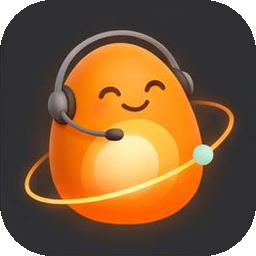
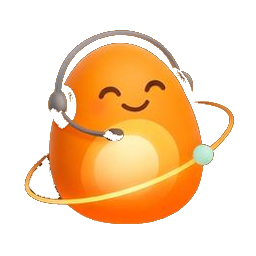
Show each agent as the character alone, and let that mascot move while it works.
The icon no longer sits on a black tile, the phone create-bot sheet fits a narrow screen, and the same site is what the desktop app loads.

diff --git a/apps/web/app/globals.css b/apps/web/app/globals.css
@@ -3126,13 +3126,84 @@ button.provider:disabled { opacity: .6; cursor: default; }
 .chief-alert-draft { margin: 8px 0; padding: 8px 10px; border-left: 3px solid var(--accent); white-space: pre-wrap; font-size: 13px; }
 .chief-alert-actions { display: flex; flex-wrap: wrap; gap: 6px; margin-top: 8px; }
 
-/* Agent mascots (components/mascots.ts): the picture fills the avatar; the agent's color tints it. */
-.agent-avatar.mascot { background: transparent !important; padding: 0; overflow: hidden; }
-.agent-avatar.mascot img { width: 100%; height: 100%; display: block; object-fit: cover; }
-.avatar-icon-grid.mascots { grid-template-columns: repeat(6, minmax(36px, 1fr)); gap: 6px; }
+/* Agent mascots: the picture is the character only (transparent around it). Color tints the artwork. */
+.agent-avatar.mascot {
+  position: relative;
+  background: transparent !important;
+  padding: 0;
+  overflow: visible;
+  border-radius: 0;
+  box-shadow: none;
+}
+.agent-avatar.mascot img {
+  position: relative;
+  z-index: 1;
+  width: 100%;
+  height: 100%;
+  display: block;
+  object-fit: contain;
+  transform: scale(1.12);
+  transform-origin: center;
+}
+.agent-avatar.chat-head-face.mascot { width: 40px; height: 40px; }
+.think-mascot { width: 36px; height: 36px; }
+.group-stack .agent-avatar.mascot { margin-left: -10px; box-shadow: none; }
+.avatar-icon-grid.mascots { grid-template-columns: repeat(6, minmax(0, 1fr)); gap: 6px; }
 .avatar-icon-grid.mascots button { width: 100%; height: auto; aspect-ratio: 1; padding: 2px; background: transparent; border-width: 2px; border-radius: 12px; }
-.avatar-icon-grid.mascots button img { width: 100%; height: 100%; border-radius: 9px; display: block; transition: filter 0.15s ease; }
+.avatar-icon-grid.mascots button img { width: 100%; height: 100%; border-radius: 0; object-fit: contain; display: block; transition: filter 0.15s ease; }
 .avatar-icon-grid.mascots button:hover { border-color: var(--line); }
+.agent-avatar.mascot.working::before {
+  content: "";
+  position: absolute;
+  inset: 8%;
+  z-index: 0;
+  border-radius: 50%;
+  background: radial-gradient(circle, color-mix(in srgb, var(--mascot, #f97316) 42%, transparent), transparent 70%);
+  animation: mascot-glow 1.15s ease-in-out infinite;
+}
+.agent-avatar.mascot.working img { animation: mascot-bob 1.15s ease-in-out infinite; }
+@keyframes mascot-bob {
+  0%, 100% { transform: scale(1.12) translateY(0) rotate(-4deg); }
+  50% { transform: scale(1.2) translateY(-10%) rotate(5deg); }
+}
+@keyframes mascot-glow {
+  0%, 100% { opacity: 0.45; transform: scale(0.86); }
+  50% { opacity: 1; transform: scale(1.08); }
+}
+.table-scroll { max-width: 100%; overflow-x: auto; -webkit-overflow-scrolling: touch; }
+
+@media (max-width: 640px) {
+  .agent-form-scrim {
+    padding: 0;
+    align-items: end;
+  }
+  .agent-form,
+  .agent-form.wide {
+    width: 100%;
+    max-height: 100dvh;
+    border-radius: 18px 18px 0 0;
+    padding: 16px 14px calc(12px + env(safe-area-inset-bottom));
+  }
+  .agent-avatar-editor { grid-template-columns: 1fr; }
+  .agent-avatar-preview {
+    grid-auto-flow: column;
+    justify-content: start;
+    align-items: center;
+    gap: 10px;
+    text-align: left;
+  }
+  .avatar-icon-grid.mascots { grid-template-columns: repeat(4, minmax(0, 1fr)); gap: 8px; }
+  .avatar-icon-grid.mascots button { min-height: 44px; }
+  .avatar-color-grid button { width: 28px; height: 28px; }
+  .agent-form-actions {
+    position: sticky;
+    bottom: 0;
+    background: #fff;
+    padding-top: 10px;
+  }
+  .agent-form-actions .btn { flex: 1; min-height: 44px; }
+  .topbar-who { min-width: 0; }
+}
 
 /* Skill flow canvas (components/SkillFlow.tsx): steps as linked nodes; passed ticked, current highlighted. */
 .skill-flow { margin: 10px 0; }

diff --git a/apps/web/app/components/AgentsNav.tsx b/apps/web/app/components/AgentsNav.tsx
@@ -414,6 +414,7 @@ export function AgentsNav({
             agent={agent}
             href={chatHref({ agent: agent.id })}
             active={activeAgentId === agent.id && !activeGroupId}
+            working={busyScopes.includes(`a.${agent.id}`)}
             preview={busyScopes.includes(`a.${agent.id}`) ? "Working…" : previewFor(threads, agent.id, null) || agent.preview || agent.title || "New chat"}
             stay={pathname === "/chat"}
             onOpen={() => {
@@ -443,7 +444,7 @@ export function AgentsNav({
                 window.location.assign(chatHref({ group: group.id }));
               }}
             >
-              <GroupStack members={group.members} />
+              <GroupStack members={group.members} working={busyScopes.includes(`g.${group.id}`)} />
               <span className="agent-copy">
                 <strong>{group.name}</strong>
                 <small>{busyScopes.includes(`g.${group.id}`) ? "Working…" : previewFor(threads, null, group.id) || group.outcome || group.preview || group.members.map((m) => m.name).join(", ") || "Group"}</small>
@@ -834,6 +835,7 @@ function AgentRow({
   href,
   active,
   preview,
+  working = false,
   stay,
   onOpen,
   onOpenMenu,
@@ -842,6 +844,7 @@ function AgentRow({
   href: string;
   active: boolean;
   preview: string;
+  working?: boolean;
   stay?: boolean;
   onOpen: () => void;
   onOpenMenu: (x: number, y: number) => void;
@@ -865,7 +868,7 @@ function AgentRow({
           window.location.assign(href);
         }}
       >
-        <AgentAvatar name={agent.name} color={agent.color} avatar={agent.avatar} />
+        <AgentAvatar name={agent.name} color={agent.color} avatar={agent.avatar} working={working} />
         <span className="agent-copy">
           <strong>
             {agent.pinned ? <span className="agent-pin" aria-hidden /> : null}
@@ -1201,12 +1204,12 @@ function previewFor(threads: ChatSessionRow[], agentId: string | null, groupId: 
   return (row?.title || "").trim();
 }
 
-function GroupStack({ members }: { members: WorkspaceAgent[] }) {
+function GroupStack({ members, working = false }: { members: WorkspaceAgent[]; working?: boolean }) {
   const shown = useMemo(() => members.slice(0, 3), [members]);
   return (
-    <span className="group-stack" aria-hidden>
+    <span className={`group-stack${working ? " working" : ""}`} aria-hidden>
       {shown.map((m) => (
-        <AgentAvatar key={m.id} name={m.name} color={m.color} avatar={m.avatar} className="agent-avatar tiny" />
+        <AgentAvatar key={m.id} name={m.name} color={m.color} avatar={m.avatar} working={working} className="agent-avatar tiny" />
       ))}
     </span>
   );

diff --git a/apps/web/app/usage/page.tsx b/apps/web/app/usage/page.tsx
@@ -123,7 +123,7 @@ export default function UsagePage() {
                     write.
                   </span>
                   {data.drafts && data.drafts.length ? (
-                    <table className="usage-table">
+                    <div className="table-scroll"><table className="usage-table">
                       <thead>
                         <tr>
                           <th>Week of</th>
@@ -142,7 +142,7 @@ export default function UsagePage() {
                           </tr>
                         ))}
                       </tbody>
-                    </table>
+                    </table></div>
                   ) : (
                     <span className="faint">No replies sent from the inbox yet. This fills in as you send.</span>
                   )}
@@ -155,7 +155,7 @@ export default function UsagePage() {
                   {features.length === 0 ? (
                     <span className="muted">Nothing recorded yet. Usage appears here as you use the assistant.</span>
                   ) : (
-                    <table className="usage-table">
+                    <div className="table-scroll"><table className="usage-table">
                       <thead>
                         <tr>
                           <th>Feature</th>
@@ -182,7 +182,7 @@ export default function UsagePage() {
                           </tr>
                         ))}
                       </tbody>
-                    </table>
+                    </table></div>
                   )}
                   {!data.priced ? <span className="faint">Costs appear when model prices are set on the server (MODEL_PRICES).</span> : null}
                 </div>

diff --git a/apps/web/app/chat/page.tsx b/apps/web/app/chat/page.tsx
@@ -854,13 +854,13 @@ export default function ChatPage() {
       <div className="chat">
         <div className="chat-head">
           {activeGroup ? (
-            <span className="group-stack chat-head-face" aria-hidden>
+            <span className={`group-stack chat-head-face${busyHere ? " working" : ""}`} aria-hidden>
               {activeGroup.members.slice(0, 3).map((m) => (
-                <AgentAvatar key={m.id} name={m.name} color={m.color} avatar={m.avatar} className="agent-avatar tiny" />
+                <AgentAvatar key={m.id} name={m.name} color={m.color} avatar={m.avatar} working={busyHere} className="agent-avatar tiny" />
               ))}
             </span>
           ) : (
-            <AgentAvatar name={screenName} color={screenColor} avatar={screenAvatar} className="agent-avatar chat-head-face" />
+            <AgentAvatar name={screenName} color={screenColor} avatar={screenAvatar} working={busyHere} className="agent-avatar chat-head-face" />
           )}
           <div className="chat-head-copy">
             <strong>{screenName}</strong>
@@ -1087,6 +1087,9 @@ export default function ChatPage() {
                 draft={progress[currentKey]?.draft}
                 stopping={stopping.includes(currentKey)}
                 stalled={Boolean(stalled[currentKey])}
+                name={screenName}
+                color={screenColor}
+                avatar={screenAvatar}
               /> : null}
             <div ref={end} />
           </div>

diff --git a/apps/web/app/components/Thinking.tsx b/apps/web/app/components/Thinking.tsx
@@ -1,5 +1,7 @@
 "use client";
 
+import { AgentAvatar } from "./AgentAvatar";
+
 /**
  * Live status for an in-flight chat turn.
  *
@@ -15,6 +17,9 @@ export function Thinking({
   draft = "",
   stopping = false,
   stalled = false,
+  name = "",
+  color = "",
+  avatar = "",
 }: {
   steps?: string[];
   hint?: string;
@@ -22,6 +27,9 @@ export function Thinking({
   stopping?: boolean;
   /** No update for a while (or the connection dropped): say so, so the row never looks stuck. */
   stalled?: boolean;
+  name?: string;
+  color?: string;
+  avatar?: string;
 }) {
   const clean = steps.filter((s) => s && s !== "Done");
   const brief = hint.replace(/\s+/g, " ").trim();
@@ -39,7 +47,11 @@ export function Thinking({
       ) : null}
       {draft.trim() ? <div className="think-draft">{draft}</div> : null}
       <div className="think">
-        <span className="think-orb" />
+        {avatar ? (
+          <AgentAvatar name={name || "Lumio"} color={color} avatar={avatar} working className="agent-avatar think-mascot" />
+        ) : (
+          <span className="think-orb" />
+        )}
         <span className="think-copy" key={current}>
           {stopping ? "Stopping…" : current}
         </span>

diff --git a/apps/web/app/components/AgentAvatar.tsx b/apps/web/app/components/AgentAvatar.tsx
@@ -5,18 +5,22 @@ export function AgentAvatar({
   name,
   color,
   avatar,
+  working = false,
   className = "agent-avatar",
 }: {
   name: string;
   color?: string;
   avatar?: string;
+  /** Bob and glow while this agent is in the middle of a turn. */
+  working?: boolean;
   className?: string;
 }) {
   const mascot = mascotFor(avatar);
   if (mascot) {
-    // One of the twelve agent mascots, tinted to the agent's color.
+    // The artwork is the character only. Color tints it; working adds the live mascot motion.
+    const style = { "--mascot": color || "#f97316" } as CSSProperties;
     return (
-      <span className={`${className} mascot`} aria-hidden="true">
+      <span className={`${className} mascot${working ? " working" : ""}`} style={style} aria-hidden="true">
         <img src={mascot.src} alt="" draggable={false} style={{ filter: mascotFilter(color) }} />
       </span>
     );

diff --git a/apps/web/app/components/AppShell.tsx b/apps/web/app/components/AppShell.tsx
@@ -448,7 +448,16 @@ export function AppShell({
         <header className="topbar">
           <button className="ghost topbar-who" type="button" onClick={() => setOpen(true)} aria-label="Open menu">
             {headlineColor ? (
-              <AgentAvatar name={headline || "?"} color={headlineColor} avatar={headlineAvatar} className="agent-avatar tiny" />
+              <AgentAvatar
+                name={headline || "?"}
+                color={headlineColor}
+                avatar={headlineAvatar}
+                working={Boolean(
+                  (activeAgentId && busyScopes?.includes(`a.${activeAgentId}`)) ||
+                  (activeGroupId && busyScopes?.includes(`g.${activeGroupId}`)),
+                )}
+                className="agent-avatar tiny"
+              />
             ) : (
               <BrandMark size={22} />
             )}
